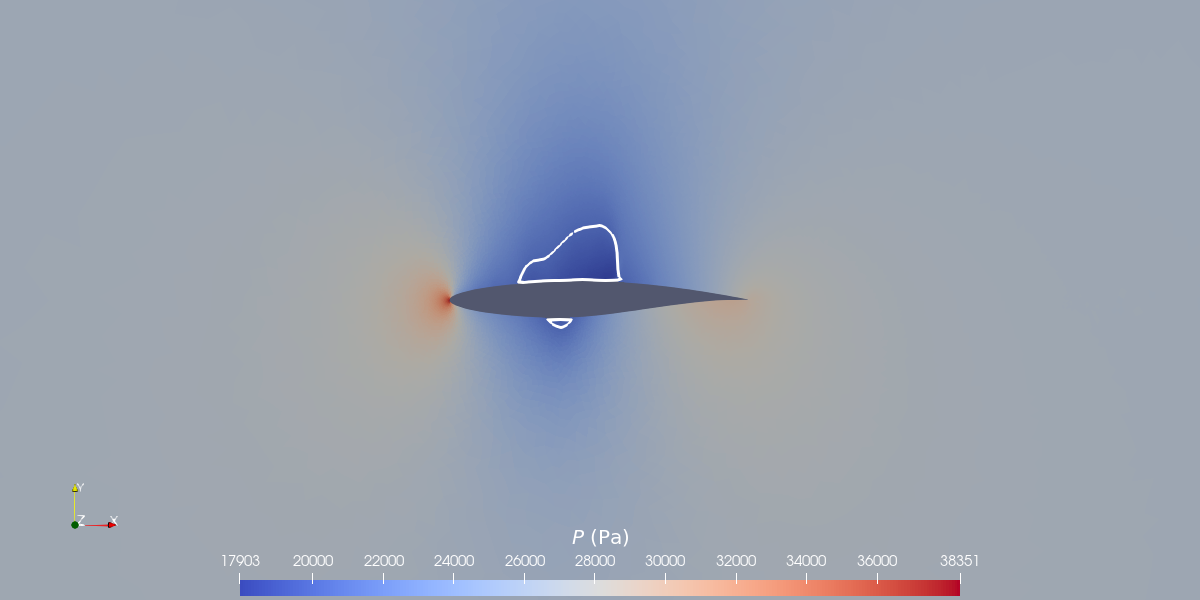
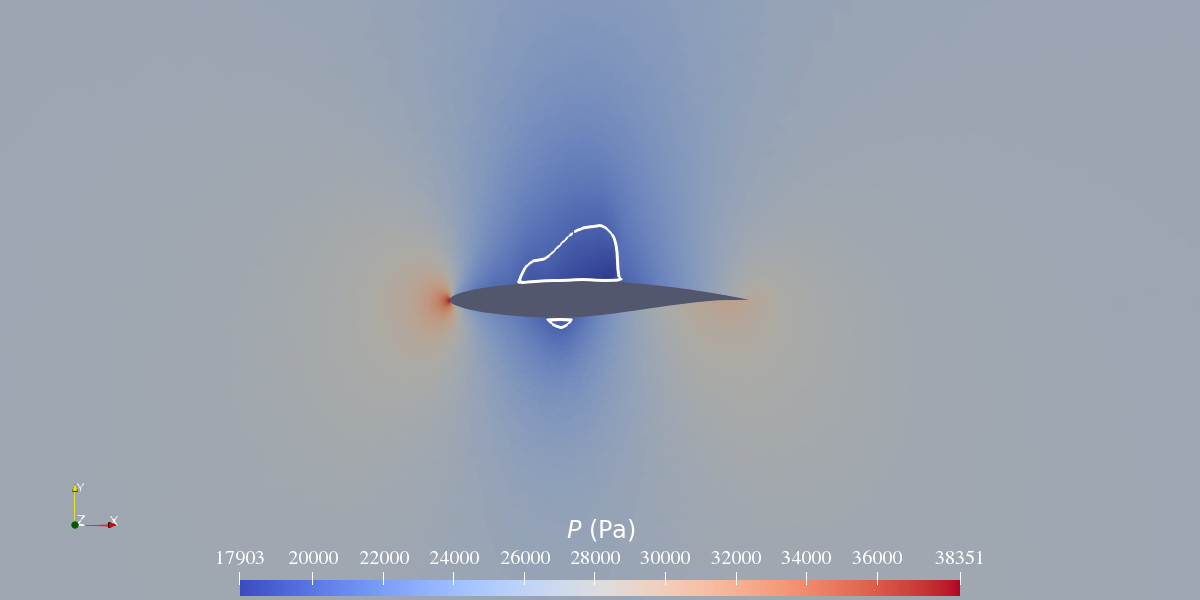
Using correct fonts

diff --git a/figures/figures_paraview.py b/figures/figures_paraview.py
@@ -55,10 +55,14 @@ def rae_field():
     color_bar.Title = '$P$ (Pa)'
     color_bar.ComponentTitle = ''
     color_bar.Orientation = 'Horizontal'
-    color_bar.TitleFontSize = 20
-    color_bar.LabelFontSize = 15
     color_bar.ScalarBarLength = 0.6
     color_bar.RangeLabelFormat = '%.0f'
+    color_bar.TitleFontFamily = 'File'
+    color_bar.TitleFontFile = matplotlib.font_manager.findfont('STIXGeneral')
+    color_bar.TitleFontSize = 24
+    color_bar.LabelFontFamily = 'File'
+    color_bar.LabelFontSize = 20
+    color_bar.LabelFontFile = matplotlib.font_manager.findfont('STIXGeneral')
     view.CameraPosition = [0.5, 0, 1]
     view.CameraFocalPoint = [0.5, 0, 0]
     view.CameraParallelScale = 1
@@ -160,9 +164,13 @@ def rae_field_fine():
     color_bar.Title = r'$\tilde{\nu} \quad \left( \operatorname{m}^2 / \operatorname{s} \right)$'
     color_bar.ComponentTitle = ''
     color_bar.Orientation = 'Horizontal'
-    color_bar.TitleFontSize = 24
-    color_bar.LabelFontSize = 18
     color_bar.ScalarBarLength = 0.5
+    color_bar.TitleFontFamily = 'File'
+    color_bar.TitleFontFile = matplotlib.font_manager.findfont('STIXGeneral')
+    color_bar.TitleFontSize = 24
+    color_bar.LabelFontFamily = 'File'
+    color_bar.LabelFontSize = 20
+    color_bar.LabelFontFile = matplotlib.font_manager.findfont('STIXGeneral')
 
     layout = pvs.CreateLayout()
     id_1 = layout.SplitVertical(0, 0.8)
@@ -212,10 +220,14 @@ def sphere_fields():
         color_bar.WindowLocation = 'Lower Center'
         color_bar.Title = label
         color_bar.Orientation = 'Horizontal'
-        color_bar.TitleFontSize = 24
-        color_bar.LabelFontSize = 20
-        color_bar.ScalarBarLength = 0.5
+        color_bar.ScalarBarLength = 0.45
         color_bar.RangeLabelFormat = fmt
+        color_bar.TitleFontFamily = 'File'
+        color_bar.TitleFontFile = matplotlib.font_manager.findfont('STIXGeneral')
+        color_bar.TitleFontSize = 24
+        color_bar.LabelFontFamily = 'File'
+        color_bar.LabelFontSize = 20
+        color_bar.LabelFontFile = matplotlib.font_manager.findfont('STIXGeneral')
         views.append(view)
 
     layout = pvs.CreateLayout()
@@ -241,7 +253,6 @@ def sphere_fields():
     print("Please set the OrientationAxis manually in the mesh view")
     views[0].OrientationAxesInteractivity = 1
     plotter.draw(0, True)
-
     # pvs.SaveScreenshot("sphere_fields.png", layout)
 
 
@@ -267,12 +278,16 @@ def sphere_carbuncle():
     color_bar.Title = '$P$ (Pa)'
     color_bar.ComponentTitle = ''
     color_bar.Orientation = 'Horizontal'
-    color_bar.TitleFontSize = 24
-    color_bar.LabelFontSize = 20
     color_bar.ScalarBarLength = 0.7
     color_bar.RangeLabelFormat = '%.0f'
     color_bar.AutomaticLabelFormat = 0
     color_bar.LabelFormat = '%.1E'
+    color_bar.TitleFontFamily = 'File'
+    color_bar.TitleFontFile = matplotlib.font_manager.findfont('STIXGeneral')
+    color_bar.TitleFontSize = 24
+    color_bar.LabelFontFamily = 'File'
+    color_bar.LabelFontSize = 20
+    color_bar.LabelFontFile = matplotlib.font_manager.findfont('STIXGeneral')
 
     layout = pvs.CreateLayout()
     id_1 = layout.SplitVertical(0, 0.8)
@@ -285,16 +300,15 @@ def sphere_carbuncle():
     print("Please set the OrientationAxis manually in both top views")
     view1.OrientationAxesInteractivity = 1
     view2.OrientationAxesInteractivity = 1
-    plotter.draw(0, True)
-
     pvs.GetAnimationScene().GoToLast()
+    plotter.draw(0, True)
     # pvs.SaveScreenshot("sphere_carbuncle.png", layout)
 
 
 def covo_cedre_fields():
     plotter = pvlib.COVOPlotter()
     plotter.register_plot("/visu/pseize/COVO/BASE/RUN_1/_ENSIGHT_/archive_CHARME.volu.ins.case", 'P', contour=50,
-                          r_gas=1, label='Base')
+                          r_gas=1, label='Implicit Euler')
 
     view1 = pvs.CreateRenderView(InteractionMode='2D')
     for k, s in pvs.GetSources().items():
@@ -310,7 +324,7 @@ def covo_cedre_fields():
             pvs.Show(s, view1)
 
     plotter.register_plot("/visu/pseize/COVO/BASE/RUN_2/_ENSIGHT_/archive_CHARME.volu.ins.case", 'P', contour=50,
-                          r_gas=1, label='Base')
+                          r_gas=1, label='Implicit Euler')
     plotter.register_plot("/visu/pseize/COVO/EXP/RUN_1/_ENSIGHT_/archive_CHARME.volu.ins.case", 'P', contour=50,
                           r_gas=1, label='Exponential Rosenbrock-Euler')
     plotter.register_plot("/visu/pseize/COVO/BASE/RUN_RK4/_ENSIGHT_/archive_CHARME.volu.ins.case", 'P', contour=50,
@@ -342,25 +356,35 @@ def covo_cedre_fields():
         view.CameraPosition = [0.5, 0, 1]
         view.CameraFocalPoint = [0.5, 0, 0]
         view.CameraParallelScale = 12
+        view.OrientationAxesVisibility = 0
 
-    view_bar.OrientationAxesVisibility = 0
+    view_bar.OrientationAxesVisibility = 1
     color_bar = pvs.GetScalarBar(pvs.GetColorTransferFunction('P'), view_bar)
     color_bar.WindowLocation = 'Lower Center'
     color_bar.Title = r'$P$'
     color_bar.ComponentTitle = ''
     color_bar.Orientation = 'Horizontal'
-    color_bar.TitleFontSize = 24
-    color_bar.LabelFontSize = 20
     color_bar.ScalarBarLength = 0.5
     color_bar.RangeLabelFormat = '%.4g'
+    color_bar.TitleFontFamily = 'File'
+    color_bar.TitleFontFile = matplotlib.font_manager.findfont('STIXGeneral')
+    color_bar.TitleFontSize = 24
+    color_bar.LabelFontFamily = 'File'
+    color_bar.LabelFontSize = 20
+    color_bar.LabelFontFile = matplotlib.font_manager.findfont('STIXGeneral')
 
     for k, s in pvs.GetRepresentations().items():
         if 'TextSourceRepresentation' in k[0]:
+            s.FontFamily = 'File'
+            s.FontFile = matplotlib.font_manager.findfont('STIXGeneral')
             s.FontSize = 24
 
-    plotter.draw(0, block=False)
     pvs.GetAnimationScene().GoToLast()
-    pvs.SaveScreenshot("covo_cedre_fields.png", layout)
+    print("Please set the OrientationAxis manually in the bar view")
+    view_bar.OrientationAxesInteractivity = 1
+    pvs.GetAnimationScene().GoToLast()
+    plotter.draw(0, True)
+    # pvs.SaveScreenshot("covo_cedre_fields.png", layout)
 
 
 def tgv_fields():
@@ -470,7 +494,6 @@ if __name__ == '__main__':
     # rae_field_fine()
     # sphere_fields()
     # sphere_carbuncle()
-    # covo_cedre_mesh()
     # covo_cedre_fields()
     # tgv_fields()
     # ls89_fields()

diff --git a/4.tex b/4.tex
@@ -487,7 +487,7 @@
     To reduce the number of variables in this comparison, both will use the traditional Jacobian matrices which is the low-order approximation.
     We then end up with two equivalent methods in terms of computational cost.
     We simulate the vortex advection throughout one period $\Delta T$.
-    We show the solution for each method in figure \ref{fig:covo_cedre_fields}.
+    The solution for each method is shown in figure \ref{fig:covo_cedre_fields}.
     We first look at the bottom center and right simulations.
     We see that the explicit Runge--Kutta method preserves well enough the vortex compared to the implicit method.
     It is because the RK4 method is a fourth-order method whereas the implicit method is a first-order method.
